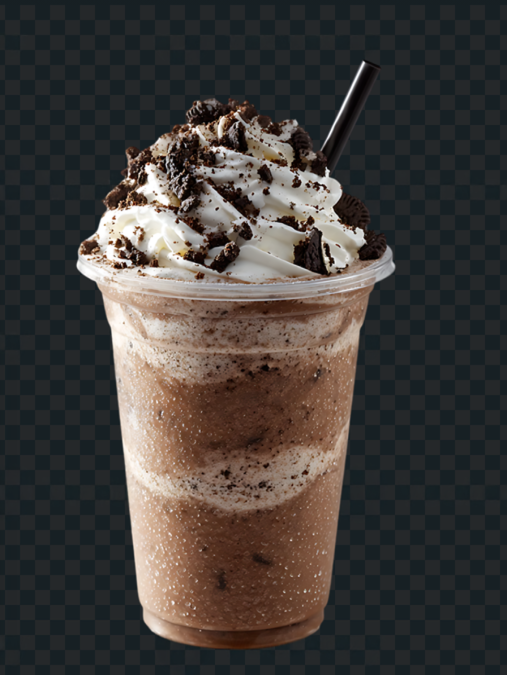
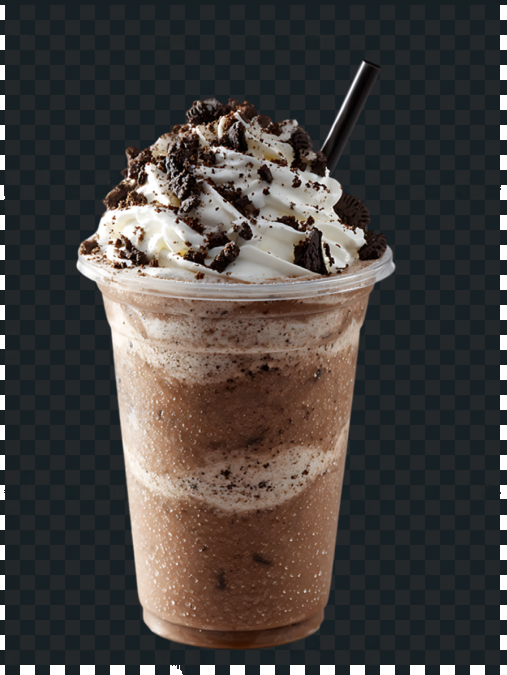
style: remove milkshake cup background grid pattern, scale up cup size, and expand circle coordinates to fill space

diff --git a/src/pages/POSPage.tsx b/src/pages/POSPage.tsx
@@ -1468,8 +1468,8 @@ const FloatingToppingCircle = memo(({ name, emoji, active, onClick, onDragStart,
       className="pos-btn-interactive"
       style={{
         position: 'absolute',
-        width: 80,
-        height: 80,
+        width: 90,
+        height: 90,
         borderRadius: '50%',
         border: `2px solid ${active ? '#f59e0b' : '#374151'}`,
         background: active ? 'rgba(245,158,11,0.15)' : 'rgba(31, 41, 55, 0.85)',
@@ -1644,7 +1644,7 @@ function MilkshakePanel({ onAdd }: { onAdd: (item: any, custom: any, price: numb
         <div style={{
           position: 'relative',
           width: '100%',
-          height: 330,
+          height: 390,
           background: 'rgba(15,23,42,0.15)',
           borderRadius: 20,
           border: '1px solid rgba(255,255,255,0.05)',
@@ -1665,8 +1665,8 @@ function MilkshakePanel({ onAdd }: { onAdd: (item: any, custom: any, price: numb
             onDragStart={handleCupDragStart}
             style={{
               position: 'relative',
-              width: 160,
-              height: 210,
+              width: 220,
+              height: 280,
               display: 'flex',
               alignItems: 'center',
               justifyContent: 'center',
@@ -1824,7 +1824,7 @@ function MilkshakePanel({ onAdd }: { onAdd: (item: any, custom: any, price: numb
             onClick={() => toggleTopping('Kinder Bueno')}
             onDragStart={(e) => handleToppingDragStart(e, 'Kinder Bueno')}
             onDragEnd={handleToppingDragEnd}
-            style={{ top: '6%', left: '12%' }}
+            style={{ top: '4%', left: '8%' }}
           />
 
           {/* Oreo */}
@@ -1835,7 +1835,7 @@ function MilkshakePanel({ onAdd }: { onAdd: (item: any, custom: any, price: numb
             onClick={() => toggleTopping('Oreo')}
             onDragStart={(e) => handleToppingDragStart(e, 'Oreo')}
             onDragEnd={handleToppingDragEnd}
-            style={{ top: '38%', left: '5%' }}
+            style={{ top: '38%', left: '2%' }}
           />
 
           {/* M&M's */}
@@ -1846,7 +1846,7 @@ function MilkshakePanel({ onAdd }: { onAdd: (item: any, custom: any, price: numb
             onClick={() => toggleTopping("M&M's")}
             onDragStart={(e) => handleToppingDragStart(e, "M&M's")}
             onDragEnd={handleToppingDragEnd}
-            style={{ top: '70%', left: '12%' }}
+            style={{ top: '72%', left: '8%' }}
           />
 
           {/* Speculoos */}
@@ -1857,7 +1857,7 @@ function MilkshakePanel({ onAdd }: { onAdd: (item: any, custom: any, price: numb
             onClick={() => toggleTopping('Speculoos')}
             onDragStart={(e) => handleToppingDragStart(e, 'Speculoos')}
             onDragEnd={handleToppingDragEnd}
-            style={{ top: '6%', right: '12%' }}
+            style={{ top: '4%', right: '8%' }}
           />
 
           {/* Nutella */}
@@ -1868,7 +1868,7 @@ function MilkshakePanel({ onAdd }: { onAdd: (item: any, custom: any, price: numb
             onClick={() => toggleTopping('Nutella')}
             onDragStart={(e) => handleToppingDragStart(e, 'Nutella')}
             onDragEnd={handleToppingDragEnd}
-            style={{ top: '38%', right: '5%' }}
+            style={{ top: '38%', right: '2%' }}
           />
 
           {/* Daim */}
@@ -1879,7 +1879,7 @@ function MilkshakePanel({ onAdd }: { onAdd: (item: any, custom: any, price: numb
             onClick={() => toggleTopping('Daim')}
             onDragStart={(e) => handleToppingDragStart(e, 'Daim')}
             onDragEnd={handleToppingDragEnd}
-            style={{ top: '70%', right: '12%' }}
+            style={{ top: '72%', right: '8%' }}
           />
 
           {/* NAPPAGE / DRIZZLE SELECTORS (BOTTOM CENTER) */}
